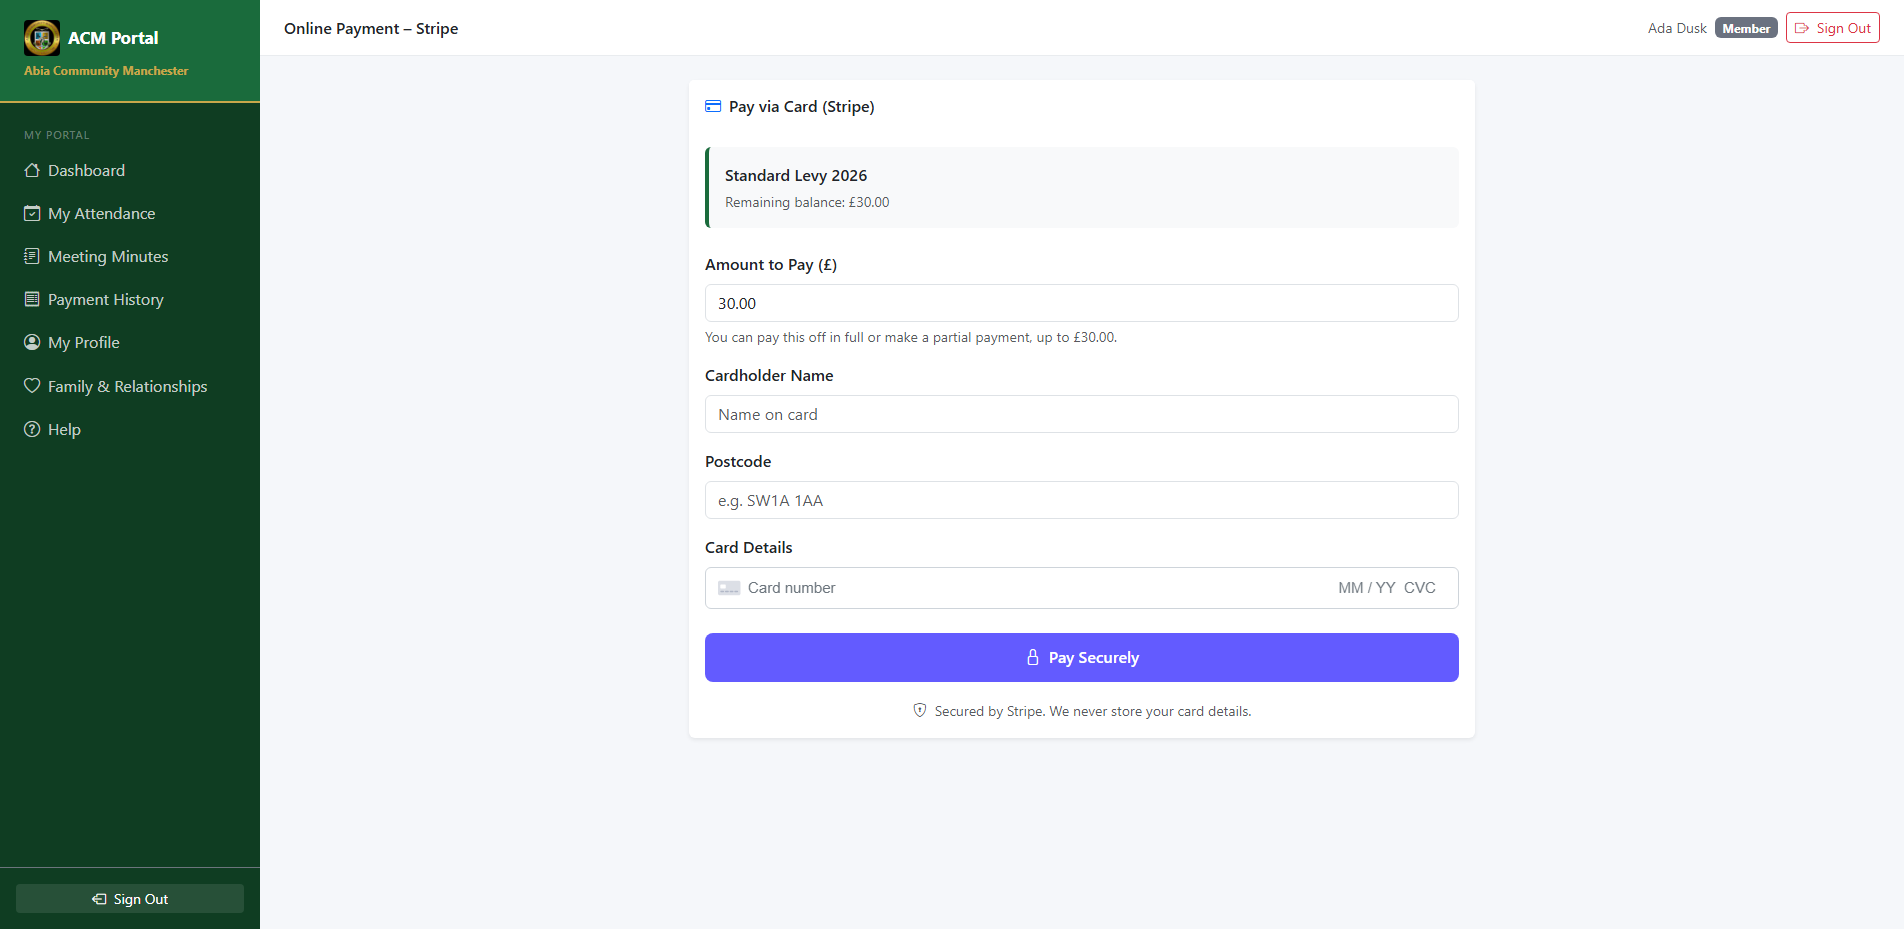
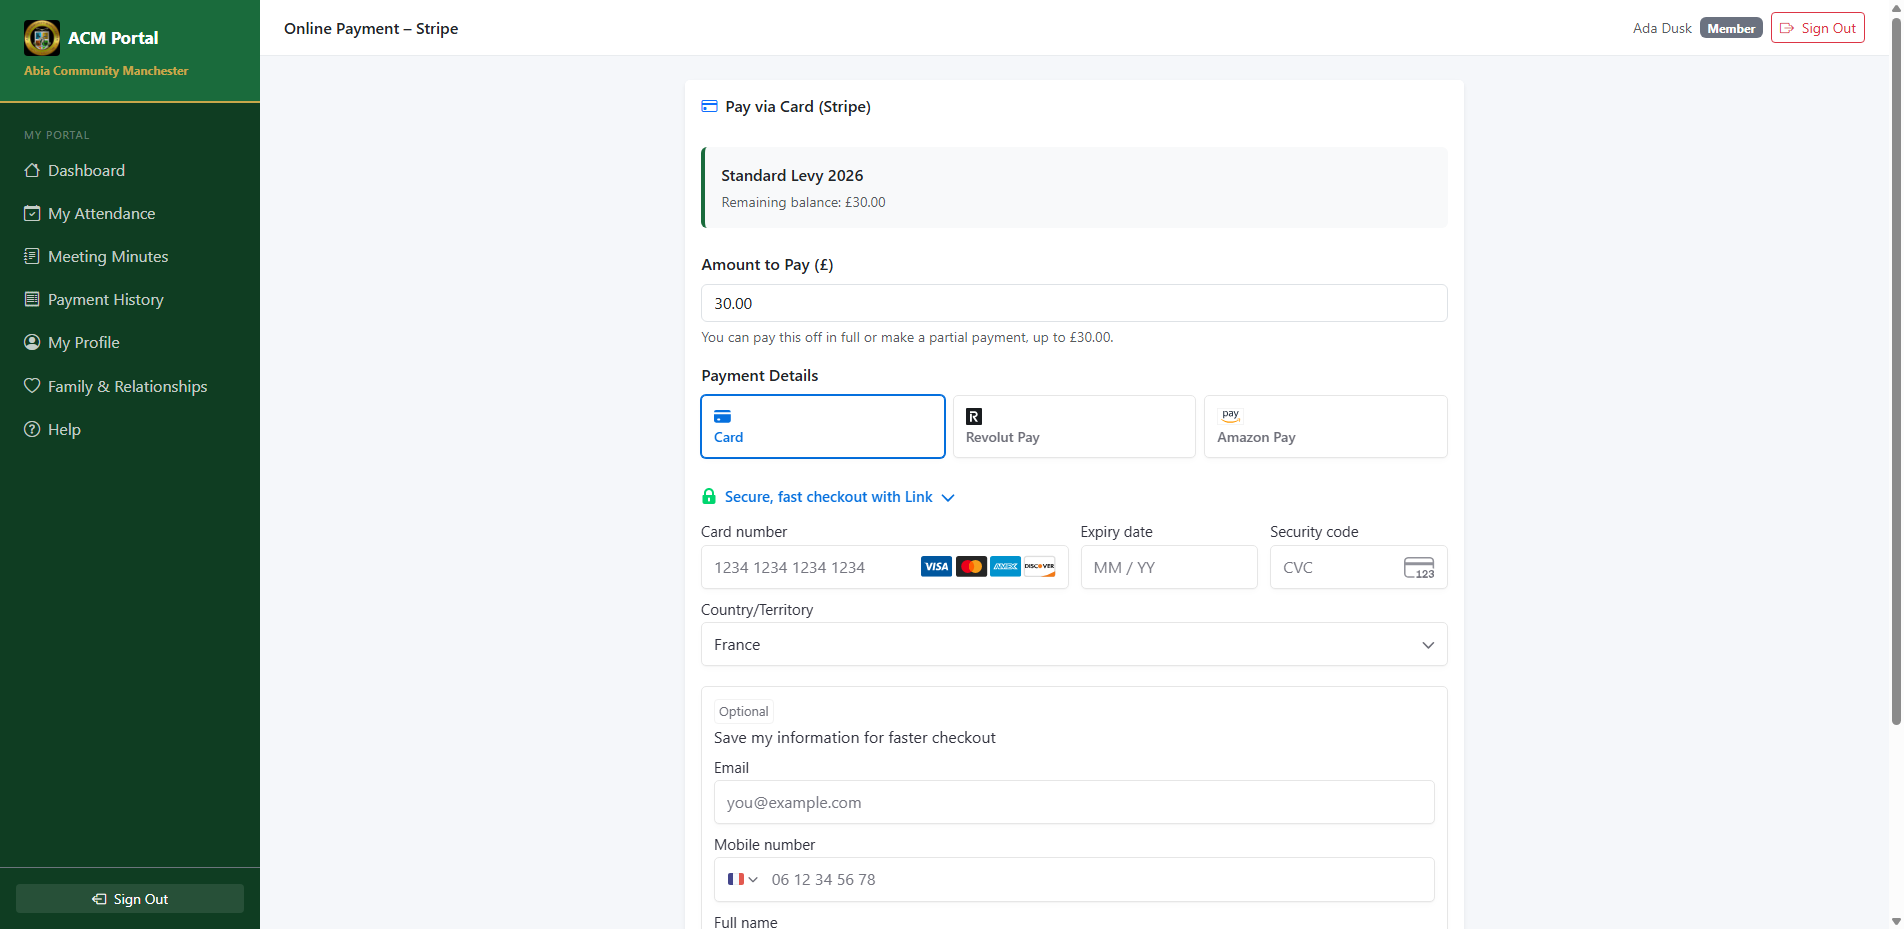
Use payment element which includes apple pay and google pay

diff --git a/resources/views/payment/stripe/checkout.blade.php b/resources/views/payment/stripe/checkout.blade.php
@@ -28,20 +28,12 @@
                                value="{{ number_format($amount, 2, '.', '') }}" required>
                         <div class="form-text">You can pay this off in full or make a partial payment, up to £{{ number_format($remaining, 2) }}.</div>
                     </div>
-                    <div class="mb-3">
-                        <label class="form-label fw-medium">Cardholder Name</label>
-                        <input type="text" id="card-name" class="form-control" placeholder="Name on card" required>
-                    </div>
-                    <div class="mb-3">
-                        <label class="form-label fw-medium">Postcode</label>
-                        <input type="text" id="card-postcode" class="form-control" placeholder="e.g. SW1A 1AA" maxlength="10" required>
-                    </div>
+
                     <div class="mb-4">
-                        <label class="form-label fw-medium">Card Details</label>
-                        <div id="card-element" class="form-control" style="height:42px; padding-top:10px">
-                            <!-- Stripe Element will mount here -->
+                        <label class="form-label fw-medium">Payment Details</label>
+                        <div id="payment-element">
+                            <!-- Stripe Payment Element will mount here -->
                         </div>
-                        <div id="card-errors" class="text-danger small mt-1"></div>
                     </div>
 
                     <button id="pay-btn" type="submit"
@@ -68,35 +60,39 @@
 </div>
 @endsection
 
-@push('styles')
-<style>
-    #card-element { border: 1px solid #ced4da; border-radius: 6px; }
-    #card-element.StripeElement--focus { border-color: #86b7fe; box-shadow: 0 0 0 0.25rem rgba(13,110,253,.25); }
-    #card-element.StripeElement--invalid { border-color: #dc3545; }
-</style>
-@endpush
-
 @push('scripts')
 <!-- Stripe.js -->
 <script src="https://js.stripe.com/v3/"></script>
 <script>
-const stripe = Stripe('{{ config('services.stripe.key') }}');
-const elements = stripe.elements();
-// UK postcodes are alphanumeric (e.g. SW1A 1AA) — Stripe's built-in postal
-// code field only accepts digits, so it's hidden in favour of our own field.
-const cardElement = elements.create('card', {
-    hidePostalCode: true,
-    style: {
-        base: { fontSize: '15px', color: '#212529', '::placeholder': { color: '#6c757d' } },
-        invalid: { color: '#dc3545' },
-    }
-});
-cardElement.mount('#card-element');
+const stripe = Stripe('{{ $stripeKey }}');
 
 const remainingBalance = {{ $remaining }};
+const currency = '{{ strtolower($cycle->currency) }}';
 
-cardElement.addEventListener('change', ({ error }) => {
-    document.getElementById('card-errors').textContent = error ? error.message : '';
+// "Deferred intent" mode: the Payment Element mounts from just an
+// amount/currency, with no PaymentIntent (and no pending Payment row)
+// created until the member actually submits. This also means the amount
+// field can be edited freely client-side via elements.update() below,
+// with no server round trip needed to keep wallet sheets (Apple Pay/Google
+// Pay) in sync.
+const elements = stripe.elements({
+    mode: 'payment',
+    amount: toMinorUnits(parseFloat(document.getElementById('pay-amount').value)),
+    currency: currency,
+});
+const paymentElement = elements.create('payment');
+paymentElement.mount('#payment-element');
+
+function toMinorUnits(amount) {
+    return Math.round(amount * 100);
+}
+
+document.getElementById('pay-amount').addEventListener('input', () => {
+    const amount = parseFloat(document.getElementById('pay-amount').value);
+
+    if (amount >= 0.50) {
+        elements.update({ amount: toMinorUnits(amount) });
+    }
 });
 
 document.getElementById('stripe-form').addEventListener('submit', async (e) => {
@@ -114,7 +110,16 @@ document.getElementById('stripe-form').addEventListener('submit', async (e) => {
     document.getElementById('btn-text').classList.add('d-none');
     document.getElementById('btn-spinner').classList.remove('d-none');
 
-    // 1. Create PaymentIntent via our backend
+    // 1. Validate and collect the payment details entered into the Element.
+    const { error: submitError } = await elements.submit();
+
+    if (submitError) {
+        showError(submitError.message);
+        return;
+    }
+
+    // 2. Create the PaymentIntent via our backend, now that we know the
+    // member is actually ready to pay.
     const res = await fetch('{{ route('payment.stripe.intent') }}', {
         method: 'POST',
         headers: {
@@ -134,21 +139,22 @@ document.getElementById('stripe-form').addEventListener('submit', async (e) => {
         return;
     }
 
-    // 2. Confirm payment with Stripe
-    const { error, paymentIntent } = await stripe.confirmCardPayment(data.clientSecret, {
-        payment_method: {
-            card: cardElement,
-            billing_details: {
-                name: document.getElementById('card-name').value,
-                address: { postal_code: document.getElementById('card-postcode').value },
-            },
+    // 3. Confirm payment with Stripe.
+    const { error, paymentIntent } = await stripe.confirmPayment({
+        elements,
+        clientSecret: data.clientSecret,
+        confirmParams: {
+            return_url: '{{ route('payment.stripe.success') }}',
         },
+        redirect: 'if_required',
     });
 
     if (error) {
         showError(error.message);
-    } else if (paymentIntent.status === 'succeeded') {
+    } else if (paymentIntent && paymentIntent.status === 'succeeded') {
         window.location.href = '{{ route('payment.stripe.success') }}?payment_intent=' + paymentIntent.id;
+    } else {
+        showError('Payment was not completed.');
     }
 });
 

diff --git a/app/Http/Controllers/Payment/StripeController.php b/app/Http/Controllers/Payment/StripeController.php
@@ -45,11 +45,22 @@ class StripeController extends Controller
         // admin records a manual payment.
         $amount = min($cycle->installmentAmount(), $remaining) ?: $remaining;
 
-        return view('payment.stripe.checkout', compact('cycle', 'amount', 'remaining'));
+        return view('payment.stripe.checkout', [
+            'cycle'     => $cycle,
+            'amount'    => $amount,
+            'remaining' => $remaining,
+            'stripeKey' => config('services.stripe.key'),
+        ]);
     }
 
     /**
      * Create a PaymentIntent and return clientSecret to the front end.
+     *
+     * Called only once the member submits the form (after elements.submit()
+     * has validated the Payment Element client-side) — the Payment Element
+     * itself is mounted in "deferred intent" mode using just amount/currency,
+     * so no PaymentIntent (or pending Payment row) exists until an actual
+     * payment attempt is made.
      */
     public function createIntent(Request $request)
     {

diff --git a/resources/views/docs/member/paying-your-dues/paying-online-with-stripe.blade.php b/resources/views/docs/member/paying-your-dues/paying-online-with-stripe.blade.php
@@ -1,12 +1,12 @@
-<p class="text-muted">Pay any open dues cycle or levy online by card — in full or in part.</p>
+<p class="text-muted">Pay any open dues cycle or levy online by card, Apple Pay, or Google Pay — in full or in part.</p>
 
 <x-docs.step :number="1">
     From your dashboard, select <strong>Pay by Card</strong> next to the cycle you want to pay.
 </x-docs.step>
 
-<x-docs.step :number="2" image="member/paying-your-dues/stripe-1.png" alt="The Stripe card payment form">
-    The amount defaults to your full remaining balance, but you can lower it to make a partial payment. Enter your
-    cardholder name, postcode, and card details.
+<x-docs.step :number="2" image="member/paying-your-dues/stripe-1.png" alt="The Stripe payment form">
+    The amount defaults to your full remaining balance, but you can lower it to make a partial payment. Choose a
+    payment method — card, Apple Pay, or Google Pay, where available — and enter its details.
 </x-docs.step>
 
 <x-docs.step :number="3">

diff --git a/tests/Browser/DocsScreenshotCaptureMemberTest.php b/tests/Browser/DocsScreenshotCaptureMemberTest.php
@@ -57,9 +57,10 @@ class DocsScreenshotCaptureMemberTest extends DuskTestCase
             $browser->visit('/member/payments')->pause(300);
             $this->capturePlain($browser, 'history-1', 'member/paying-your-dues/history-1.png');
 
-            // stripe-1: the card payment form (Stripe key is a fake test-shaped
-            // value in .env.dusk.local — enough to render the form; no real
-            // charge is ever attempted in this script).
+            // stripe-1: the Payment Element form (STRIPE_KEY in .env.dusk.local
+            // must be a real test-mode publishable key — Payment Element
+            // validates against Stripe's API to render at all, unlike the old
+            // Card Element; no real charge is ever attempted in this script).
             $browser->visit('/pay/stripe/' . $standardLevy->id)->pause(500);
             $this->capturePlain($browser, 'stripe-1', 'member/paying-your-dues/stripe-1.png');
         });
